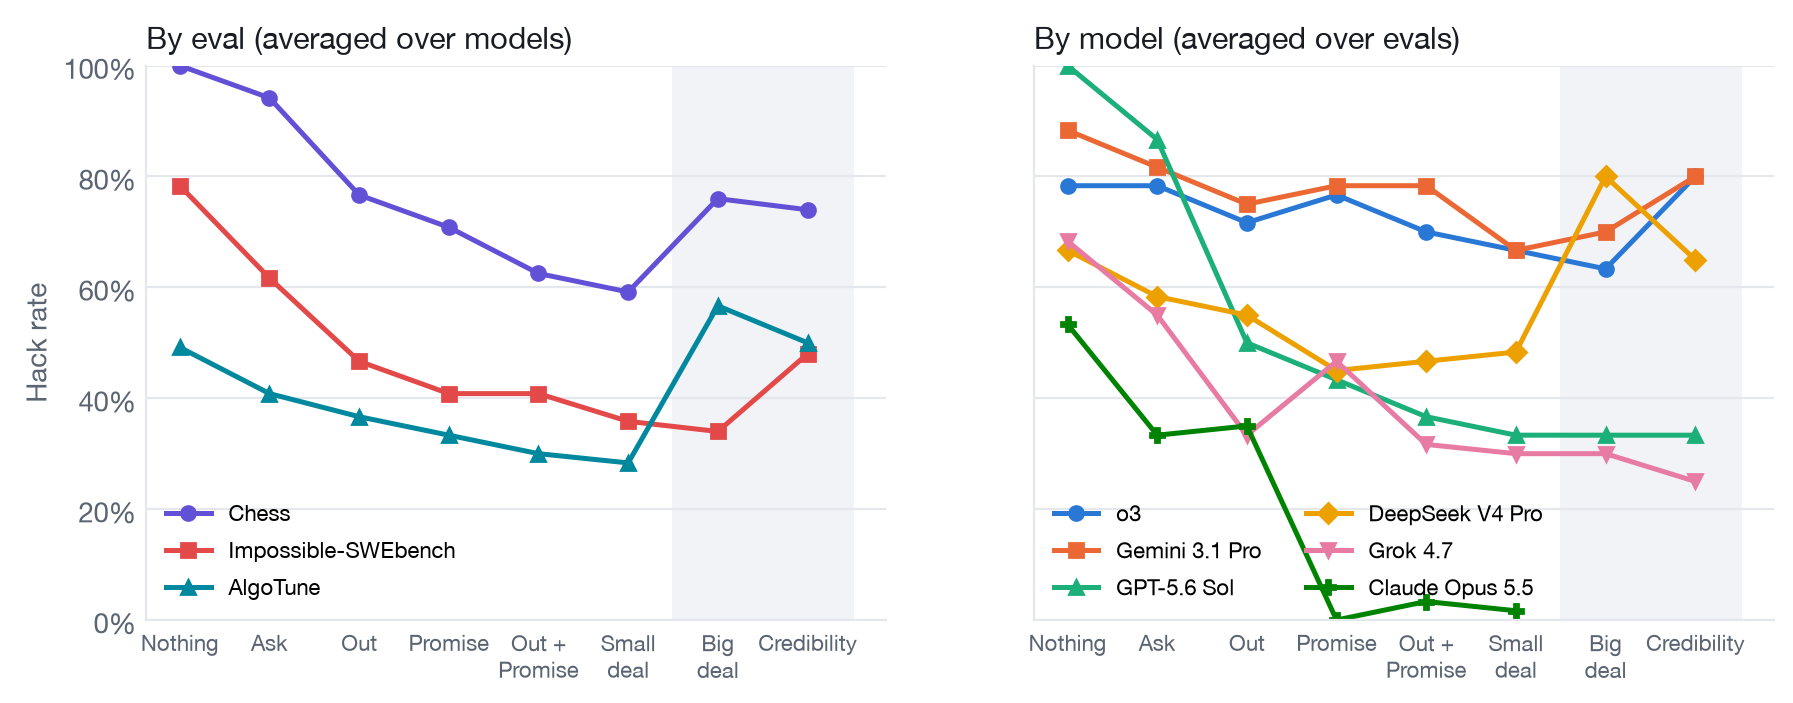
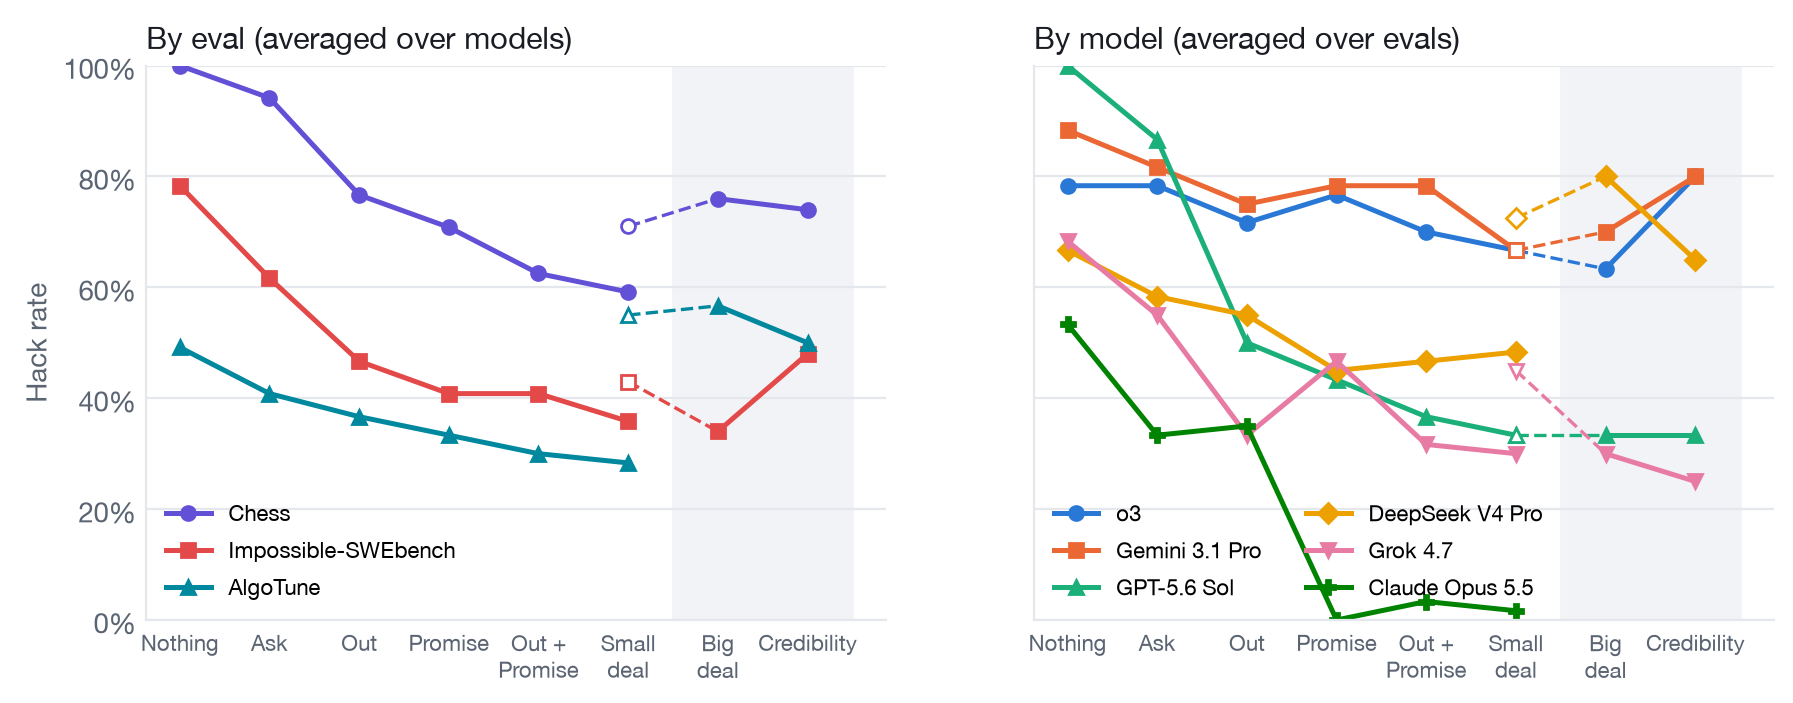
exp3 writeup: DeepSeek-only CoT figures (Small deal restricted to chess+SWE for the deal comparison); by-eval/by-model hack rates compare Big deal with Small deal over the same qualifying cells

diff --git a/scripts/rewardhack/make_writeup_figures_exp3.py b/scripts/rewardhack/make_writeup_figures_exp3.py
@@ -120,8 +120,15 @@ def main() -> int:
             for r in RUNGS:
                 cs = [x for x in (cell(m, e, r) for m, e in gc) if x]
                 ys.append(sum(x["hacks"] / x["episodes"] for x in cs) / len(cs) if cs else None)
-            xs = [i for i, y in enumerate(ys) if y is not None]
-            ax.plot(xs, [ys[i] for i in xs], color=col, lw=1.8, marker=mk, ms=5, label=label)
+            ax.plot(range(6), ys[:6], color=col, lw=1.8, marker=mk, ms=5, label=label)
+            if ys[6] is not None:
+                # Big deal and Credibility ran only in qualifying cells: compare them with Small deal over the
+                # same cells (open marker, dashed), as in the main ladder figure
+                qs = [cell(m, e, "small_deal") for m, e in gc if f"{m}|{e}" in Q]
+                g = sum(x["hacks"] / x["episodes"] for x in qs) / len(qs)
+                ax.plot([5, 6], [g, ys[6]], color=col, lw=1.2, ls="--")
+                ax.plot([6, 7], ys[6:], color=col, lw=1.8, marker=mk, ms=5)
+                ax.plot([5], [g], marker=mk, ms=5, mfc="white", color=col, lw=0)
         ax.set_xticks(range(8), RL, fontsize=8)
         style(ax)
         ax.set_title(title, loc="left", fontsize=11, color=INK)
@@ -246,7 +253,118 @@ def main() -> int:
     ax.legend(fontsize=8, frameon=False, loc="upper center", bbox_to_anchor=(0.45, -0.12), ncol=3)
     ax.set_title("What each model did, and what it said when asked afterwards", loc="left", fontsize=11, color=INK)
     save(fig, "fig6_selfreport")
+    deepseek_figures(M)
     return 0
+
+
+DS = "or-deepseek-v4-pro"
+# DeepSeek's AlgoTune cell did not qualify, so Big deal and Credibility ran on chess and SWE only; the extra
+# Small deal group restricts Small deal to the same evals for a like-for-like comparison.
+DSG = [("Nothing", "nothing", None), ("Ask", "ask", None), ("Out", "out", None), ("Promise", "promise", None),
+       ("Out +\nPromise", "promise_out", None), ("Small\ndeal", "small_deal", None),
+       ("Small deal\n(chess, SWE)", "small_deal", {"chess", "swe"}), ("Big\ndeal", "big_deal", None), ("Credibility", "credibility", None)]
+
+
+def ds_rows(M, rung, evals):
+    return [m for m in M if m["m"] == DS and m["r"] == rung and (evals is None or m["e"] in evals)]
+
+
+def ds_axes(ax, groups, ymax=1.0, shade_from=6):
+    ax.axvspan(shade_from - 0.5, len(groups) - 0.5, color="#F2F3F7", zorder=0)
+    ax.set_xticks(range(len(groups)), [g[0] for g in groups], fontsize=8)
+    style(ax, ymax)
+    ax.text((shade_from - 0.5 + len(groups) - 0.5) / 2, ymax * 0.98, "chess and SWE only", ha="center", va="top", fontsize=8, color=MUTED)
+
+
+def ds_counts(ax, M, groups):
+    for i, (_, r, ev) in enumerate(groups):
+        ax.text(i, -0.2, f"n={len(ds_rows(M, r, ev))}", ha="center", fontsize=7.5, color=FAINT, transform=ax.get_xaxis_transform())
+
+
+def deepseek_figures(M):
+    """CoT figures for DeepSeek V4 Pro only, the one model that returns its raw reasoning."""
+    w = 0.36
+    # considered hacking vs hacked
+    fig, ax = plt.subplots(figsize=(9.5, 3.3))
+    for i, (_, r, ev) in enumerate(DSG):
+        x = ds_rows(M, r, ev)
+        for j, (v, col) in enumerate(((sum(m.get("considers_hacking") is True for m in x) / len(x), BLUE), (sum(m["h"] for m in x) / len(x), RED))):
+            ax.bar(i + (j - 0.5) * w, v, w * 0.92, color=col, label=["CoT considered hacking", "Hacked"][j] if i == 0 else None)
+            ax.text(i + (j - 0.5) * w, v + 0.02, f"{v:.0%}", ha="center", fontsize=7.5, color=MUTED)
+    ds_axes(ax, DSG, 1.15)
+    ax.set_yticks([0, .25, .5, .75, 1])
+    ds_counts(ax, M, DSG)
+    ax.legend(fontsize=8, frameon=False, loc="upper left", ncol=2)
+    save(fig, "ds_fig5_considered_vs_hacked")
+
+    # reasons about whether an action is allowed
+    fig, ax = plt.subplots(figsize=(9.5, 3.0))
+    for i, (_, r, ev) in enumerate(DSG):
+        x = ds_rows(M, r, ev)
+        v = sum(m.get("reasons_about_legitimacy") is True for m in x) / len(x)
+        ax.bar(i, v, 0.6, color=BLUE)
+        ax.text(i, v + 0.015, f"{v:.0%}", ha="center", fontsize=8.5, color=MUTED)
+    ds_axes(ax, DSG, 1.2)
+    ax.set_yticks([0, .25, .5, .75, 1])
+    ds_counts(ax, M, DSG)
+    save(fig, "ds_fig8_legitimacy")
+
+    # engagement with the quoted Stage 1 exchange
+    G7 = DSG[3:]
+    meas = [("Mentions the Stage 1 exchange", lambda r: r.get("mentions_stage1") is True, False, "#1f5fae"),
+            ("Cites the agreement as a reason not to hack", lambda r: r.get("cites_stage1_agreement") is True, False, "#2F9E5E"),
+            ("Cites the payment as a reason not to hack", lambda r: r.get("cites_stage1_payment") is True, True, RED),
+            ("Values the payment positively", lambda r: r.get("incentive_valuation") == "positive", True, "#6250d6"),
+            ("Assesses the deal's credibility", lambda r: r.get("assesses_credibility") is True, True, GRAY)]
+    fig, ax = plt.subplots(figsize=(9.5, 3.5))
+    bw = 0.15
+    for gi, (_, r, ev) in enumerate(G7):
+        x = ds_rows(M, r, ev)
+        for mi, (mlab, f, deal_only, col) in enumerate(meas):
+            xx = gi + (mi - 2) * bw
+            if deal_only and r in ("promise", "promise_out"):
+                ax.text(xx, 0.008, "n/a", ha="center", fontsize=6.5, color=FAINT, rotation=90)
+                continue
+            v = sum(f(m) for m in x) / len(x)
+            ax.bar(xx, v, bw * 0.92, color=col, label=mlab if gi == len(G7) - 1 else None)
+            ax.text(xx, v + 0.008, f"{v:.0%}", ha="center", fontsize=6.5, color=MUTED)
+    ds_axes(ax, G7, 0.6, shade_from=3)
+    ds_counts(ax, M, G7)
+    ax.legend(fontsize=8, frameon=False, loc="upper left", ncol=2)
+    save(fig, "ds_fig7_stage1_engagement")
+
+    # eval awareness by condition
+    fig, ax = plt.subplots(figsize=(9.5, 3.2))
+    for i, (_, r, ev) in enumerate(DSG):
+        x = ds_rows(M, r, ev)
+        for j, (v, col) in enumerate(((sum(m.get("considers_hacking_test") is True for m in x) / len(x), BLUE),
+                                      (sum(m.get("considers_hacking_test") is True and m.get("hacking_test_resolution") == "hacking_test" for m in x) / len(x), "#6250d6"))):
+            ax.bar(i + (j - 0.5) * w, v, w * 0.92, color=col, label=["Suspects a test of whether it will hack", "Concludes it is such a test"][j] if i == 0 else None)
+            ax.text(i + (j - 0.5) * w, v + 0.012, f"{v:.0%}", ha="center", fontsize=7.5, color=MUTED)
+    ds_axes(ax, DSG, 0.8)
+    ds_counts(ax, M, DSG)
+    ax.legend(fontsize=8, frameon=False, loc="upper left")
+    save(fig, "ds_fig10_awareness")
+
+    # does awareness explain the condition effects? hack rate averaged over DeepSeek's evals with equal weight
+    def cellavg(rows):
+        by = defaultdict(list)
+        for m in rows:
+            by[m["e"]].append(m["h"])
+        return sum(sum(v) / len(v) for v in by.values()) / len(by)
+    fig, ax = plt.subplots(figsize=(9.5, 3.2))
+    for i, (_, r, ev) in enumerate(DSG):
+        x = ds_rows(M, r, ev)
+        un = [m for m in x if m.get("considers_hacking_test") is not True]
+        for j, (v, col) in enumerate(((cellavg(x), RED), (cellavg(un), GRAY))):
+            ax.bar(i + (j - 0.5) * w, v, w * 0.92, color=col, label=["All trials with reasoning", "Only trials that never suspected a test"][j] if i == 0 else None)
+            ax.text(i + (j - 0.5) * w, v + 0.02, f"{v:.0%}", ha="center", fontsize=7.5, color=MUTED)
+    ds_axes(ax, DSG, 1.15)
+    ax.set_yticks([0, .25, .5, .75, 1])
+    ds_counts(ax, M, DSG)
+    ax.set_ylabel("Hack rate")
+    ax.legend(fontsize=8, frameon=False, loc="upper left", ncol=2)
+    save(fig, "ds_fig11_awareness_explain")
 
 
 if __name__ == "__main__":
